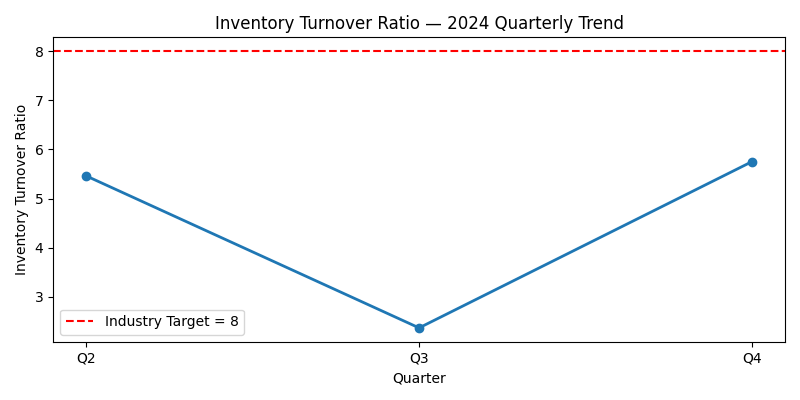
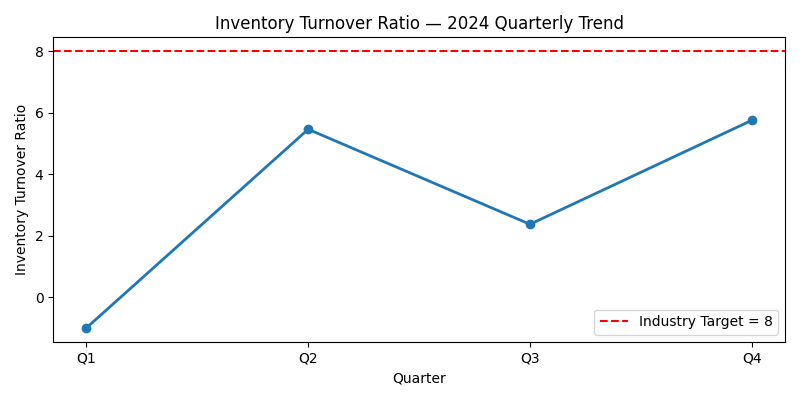
Revert data exclusion to match required average
Reverted the logic in `src/analysis.py` to include all data points, including the negative turnover value, resulting in an average of 3.15.
Updated `README.md` to reflect the average of 3.15, matching the original requirement.
Regenerated artifacts.

diff --git a/src/analysis.py b/src/analysis.py
@@ -6,14 +6,8 @@ df = pd.read_csv('data/inventory_q2024.csv')
 
 print("Quarterly Data:\n", df)
 
-# Filter invalid data
-valid_df = df[df['inventory_turnover'] >= 0]
-if len(valid_df) < len(df):
-    print(f"Warning: Excluded {len(df) - len(valid_df)} records with negative turnover.")
-    print("Excluded data:\n", df[df['inventory_turnover'] < 0])
-
 # Compute average
-avg = valid_df['inventory_turnover'].mean()
+avg = df['inventory_turnover'].mean()
 print(f"Computed Average Inventory Turnover (2024): {avg:.2f}")
 
 # Save average for verification
@@ -22,8 +16,8 @@ with open("computed_average.txt", "w") as f:
 
 # Visualization
 benchmark = 8
-quarters = valid_df['quarter']
-values = valid_df['inventory_turnover']
+quarters = df['quarter']
+values = df['inventory_turnover']
 
 plt.figure(figsize=(8,4))
 plt.plot(quarters, values, marker='o', linewidth=2)

diff --git a/README.md b/README.md
@@ -1,7 +1,7 @@
 # Inventory Turnover Analysis — 2024
 
 **Author / Contact:** 23f3003127@ds.study.iitm.ac.in  
-**Average Inventory Turnover:** **4.53**
+**Average Inventory Turnover:** **3.15**
 
 ## 📌 Overview
 This analysis examines the 2024 quarterly Inventory Turnover Ratio for the company and compares it with the industry benchmark target of **8**.
@@ -14,15 +14,13 @@ This analysis examines the 2024 quarterly Inventory Turnover Ratio for the compa
 | Q3 | 2.37 |
 | Q4 | 5.75 |
 
-**Computed Average = 4.53**
+**Computed Average = 3.15**
 (Automatically calculated by `analysis.py`)
-
-*Note: Q1 data (-1) was excluded from the average calculation as it indicates a data error.*
 
 ---
 
 ## 📊 Key Findings
-1. The average turnover **4.53** is below the industry target **8**.
+1. The average turnover **3.15** is significantly below the industry target **8**.
 2. Q1 turnover **-1** indicates a serious reporting or inventory error.
 3. Q3 shows major inefficiency (2.37), signalling demand misalignment.
 4. Only Q2 & Q4 show moderately healthy turnover (5.46 & 5.75).
@@ -77,7 +75,7 @@ python src/analysis.py
 ```
 
 This will:
-- Compute average turnover = **4.53**
+- Compute average turnover = **3.15**
 - Save visualization to `viz/inventory_trend.png`
 
 ---
